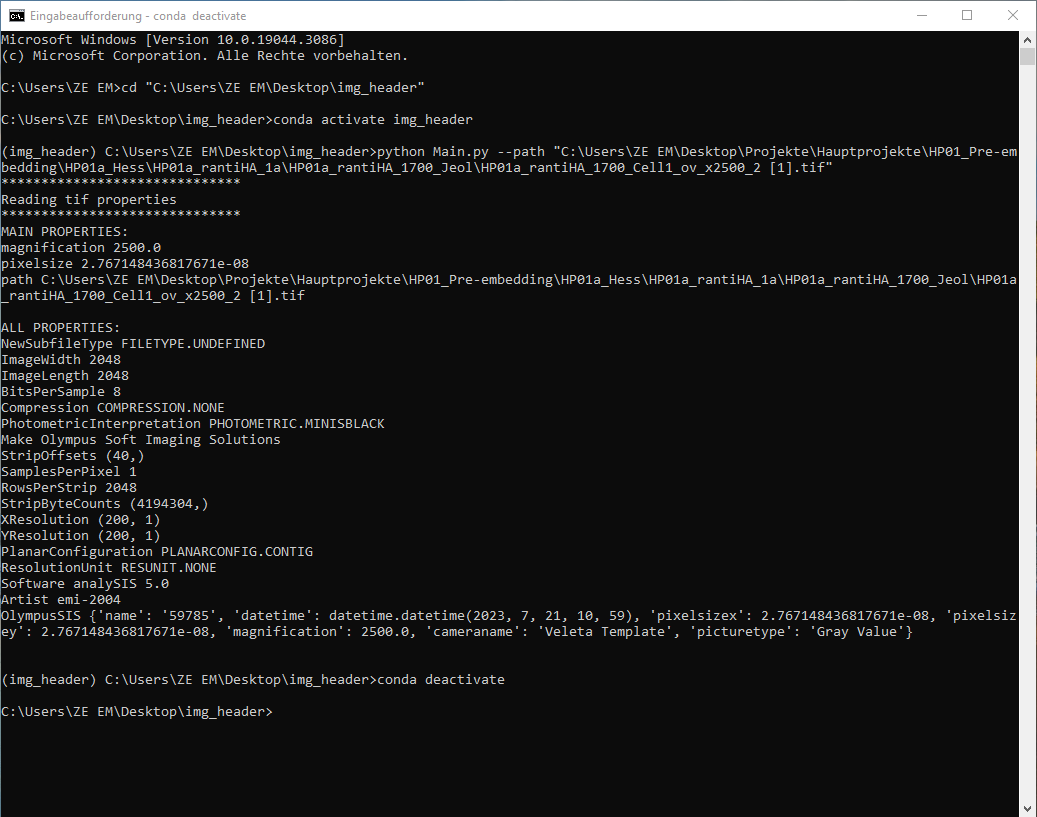
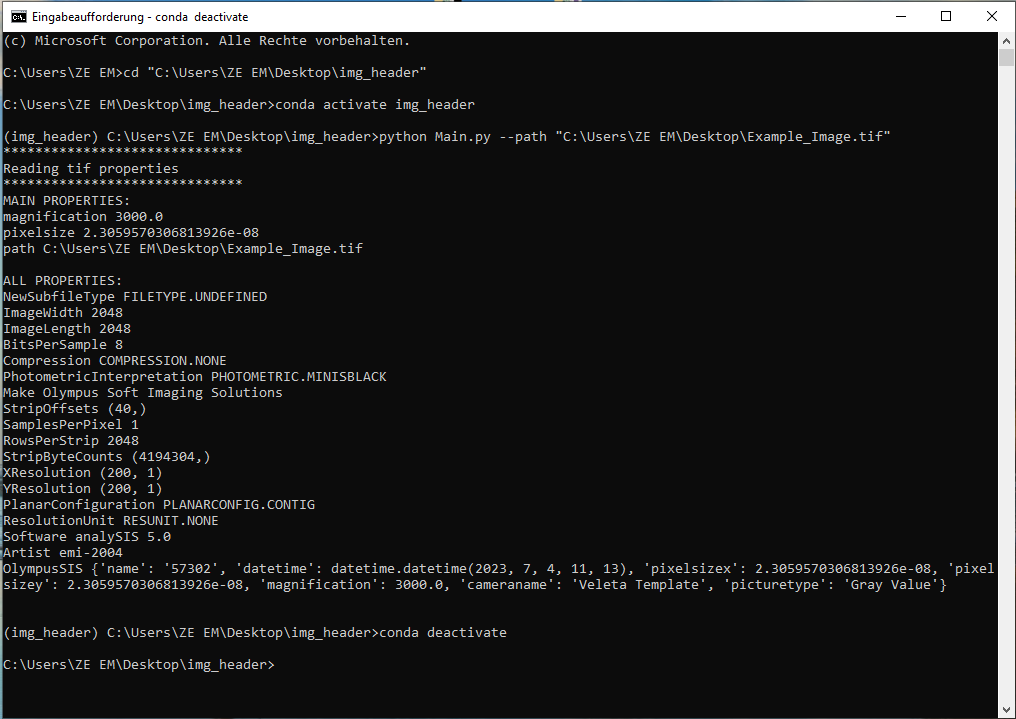
Update Read me.md and Example.PNG

Changed region(s): [[0.0, 0.0, 1.0, 0.9485], [0.9764, 0.9791, 1.0, 1.0], [0.0, 0.9791, 0.0305, 1.0]]

diff --git a/README.md b/README.md
@@ -31,12 +31,11 @@ Now you should be all setup to run the script by
 ## Use img_header
 1. Open Terminal
 2. Open img_header. Example: If img_header is installed on desktop: cd "path to file"
-Tipp: write cd and drag img_header folder into Terminal
-3. If conda is installed, it needs to be activated: conda activate img_header
+Tipp: write cd, drag and drop img_header folder into Terminal
+3. Activate conda: conda activate img_header
 4. Read out tif properties: python Main.py --path "path to image"
-=> img_header is reading tif properties
-Tipp: Drag Jeol1400 image into Terminal instead of write path manual.
-5. If conda is installed, it needs to be deactivated at the end: conda deactivate
+Tipp: Drag and drop Jeol1400 image into Terminal instead of write path manual.
+5. At the end deactivate conda: conda deactivate
 
 ## Example
 ![Example of using img_header for Jeol1400 images](Example.PNG)
